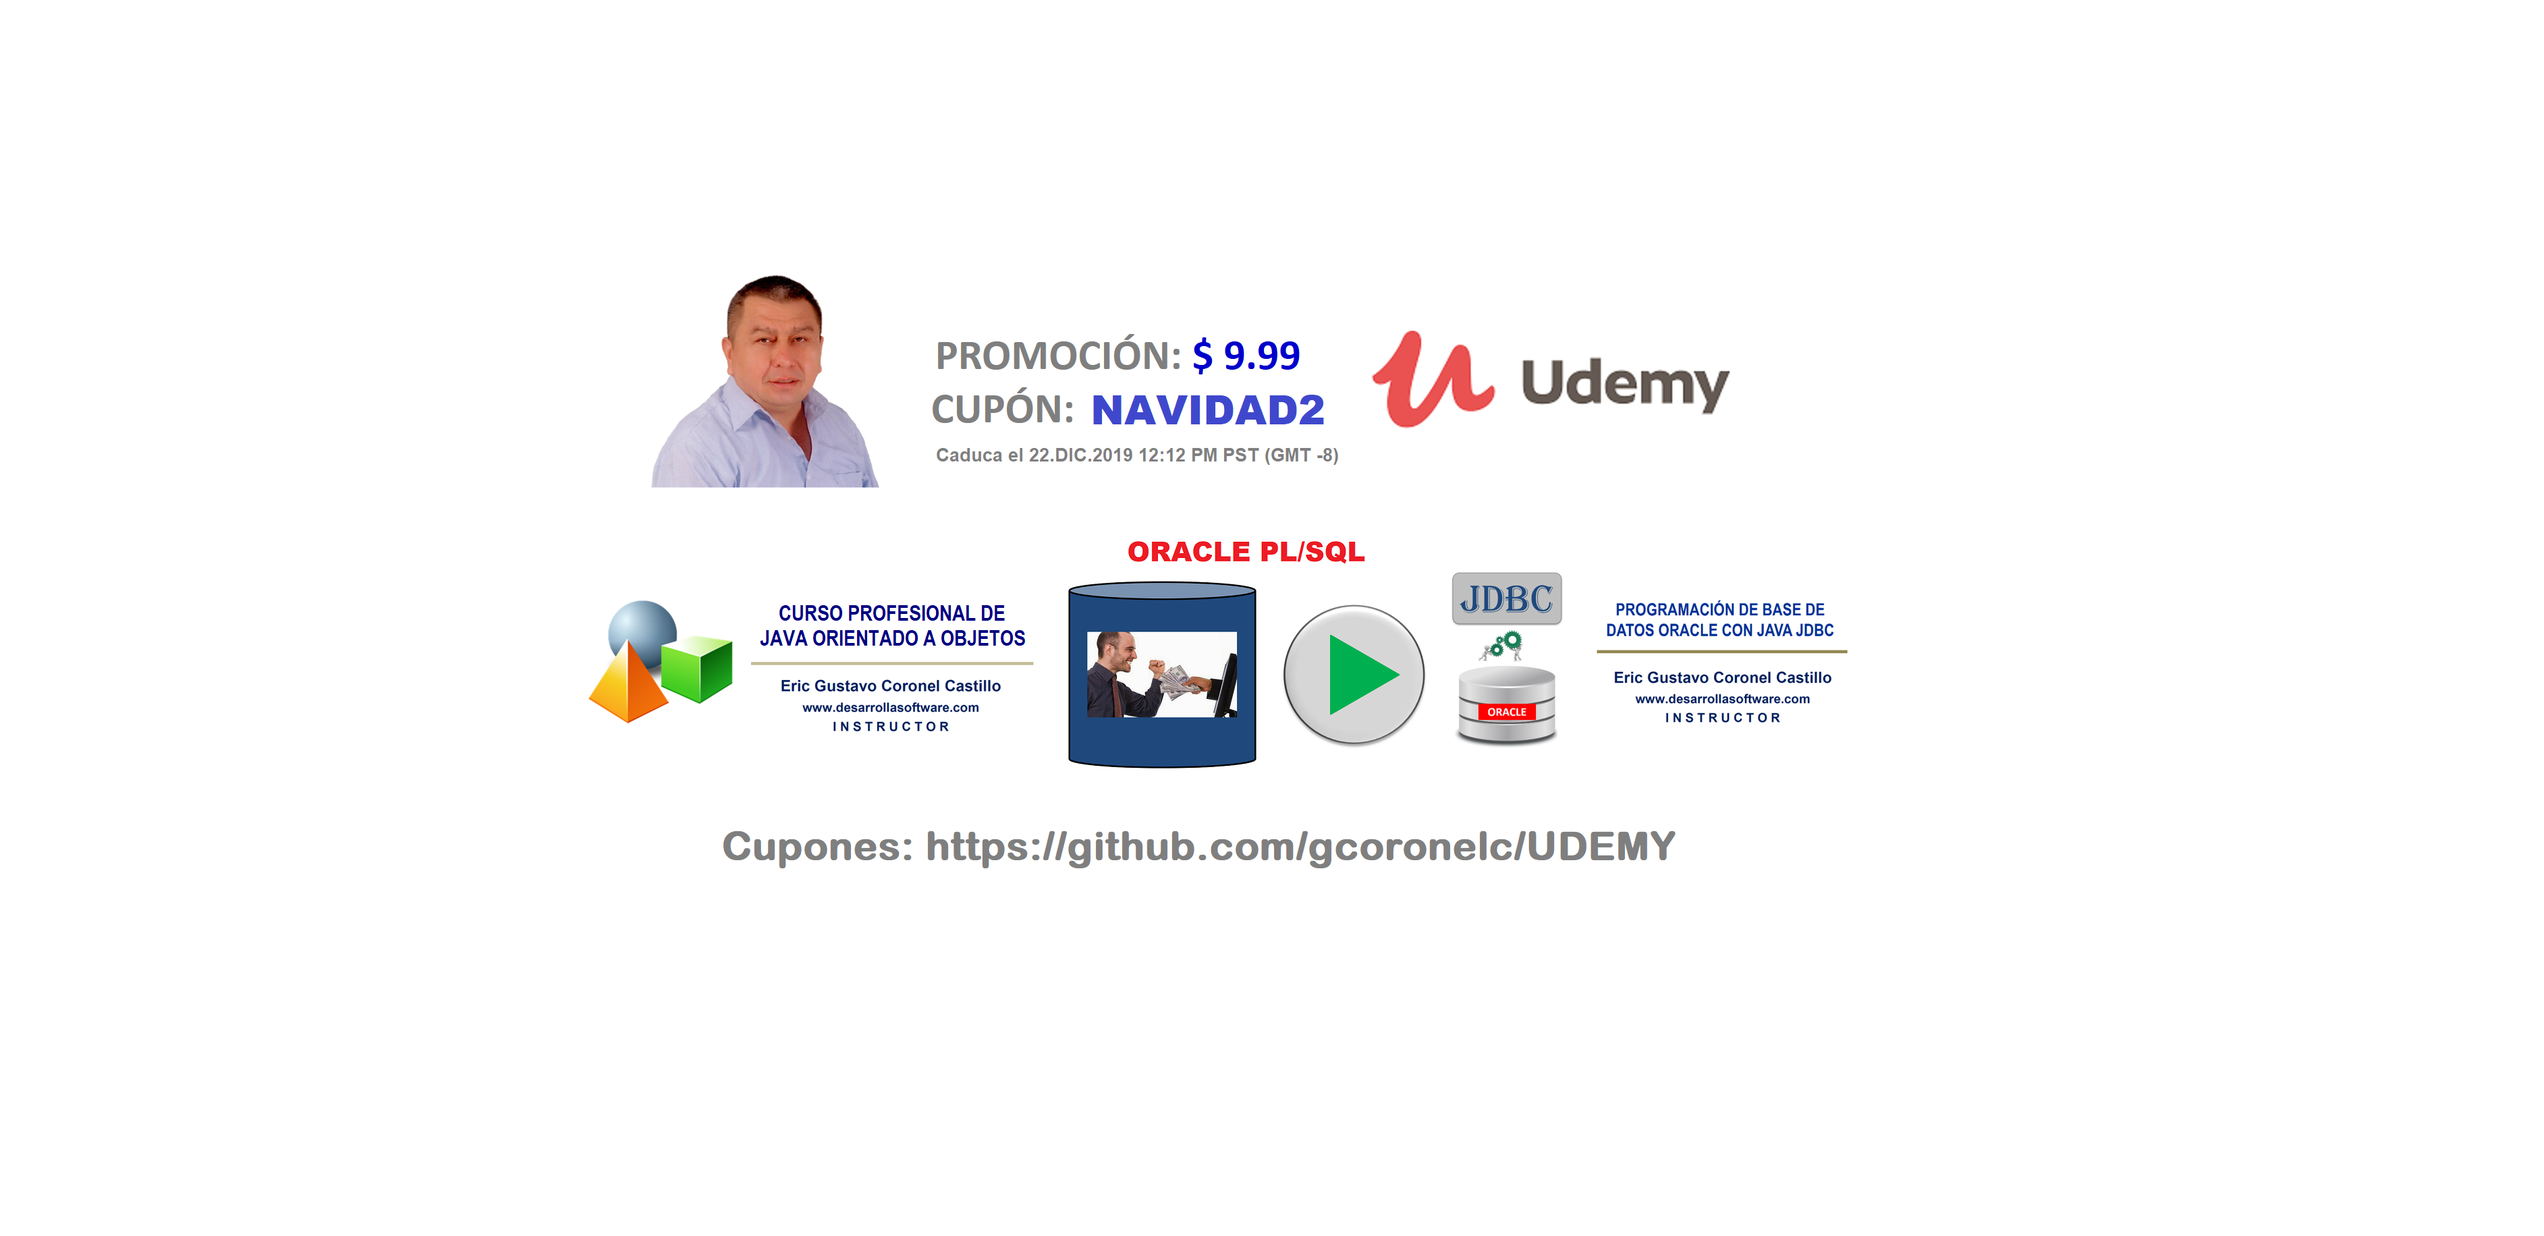
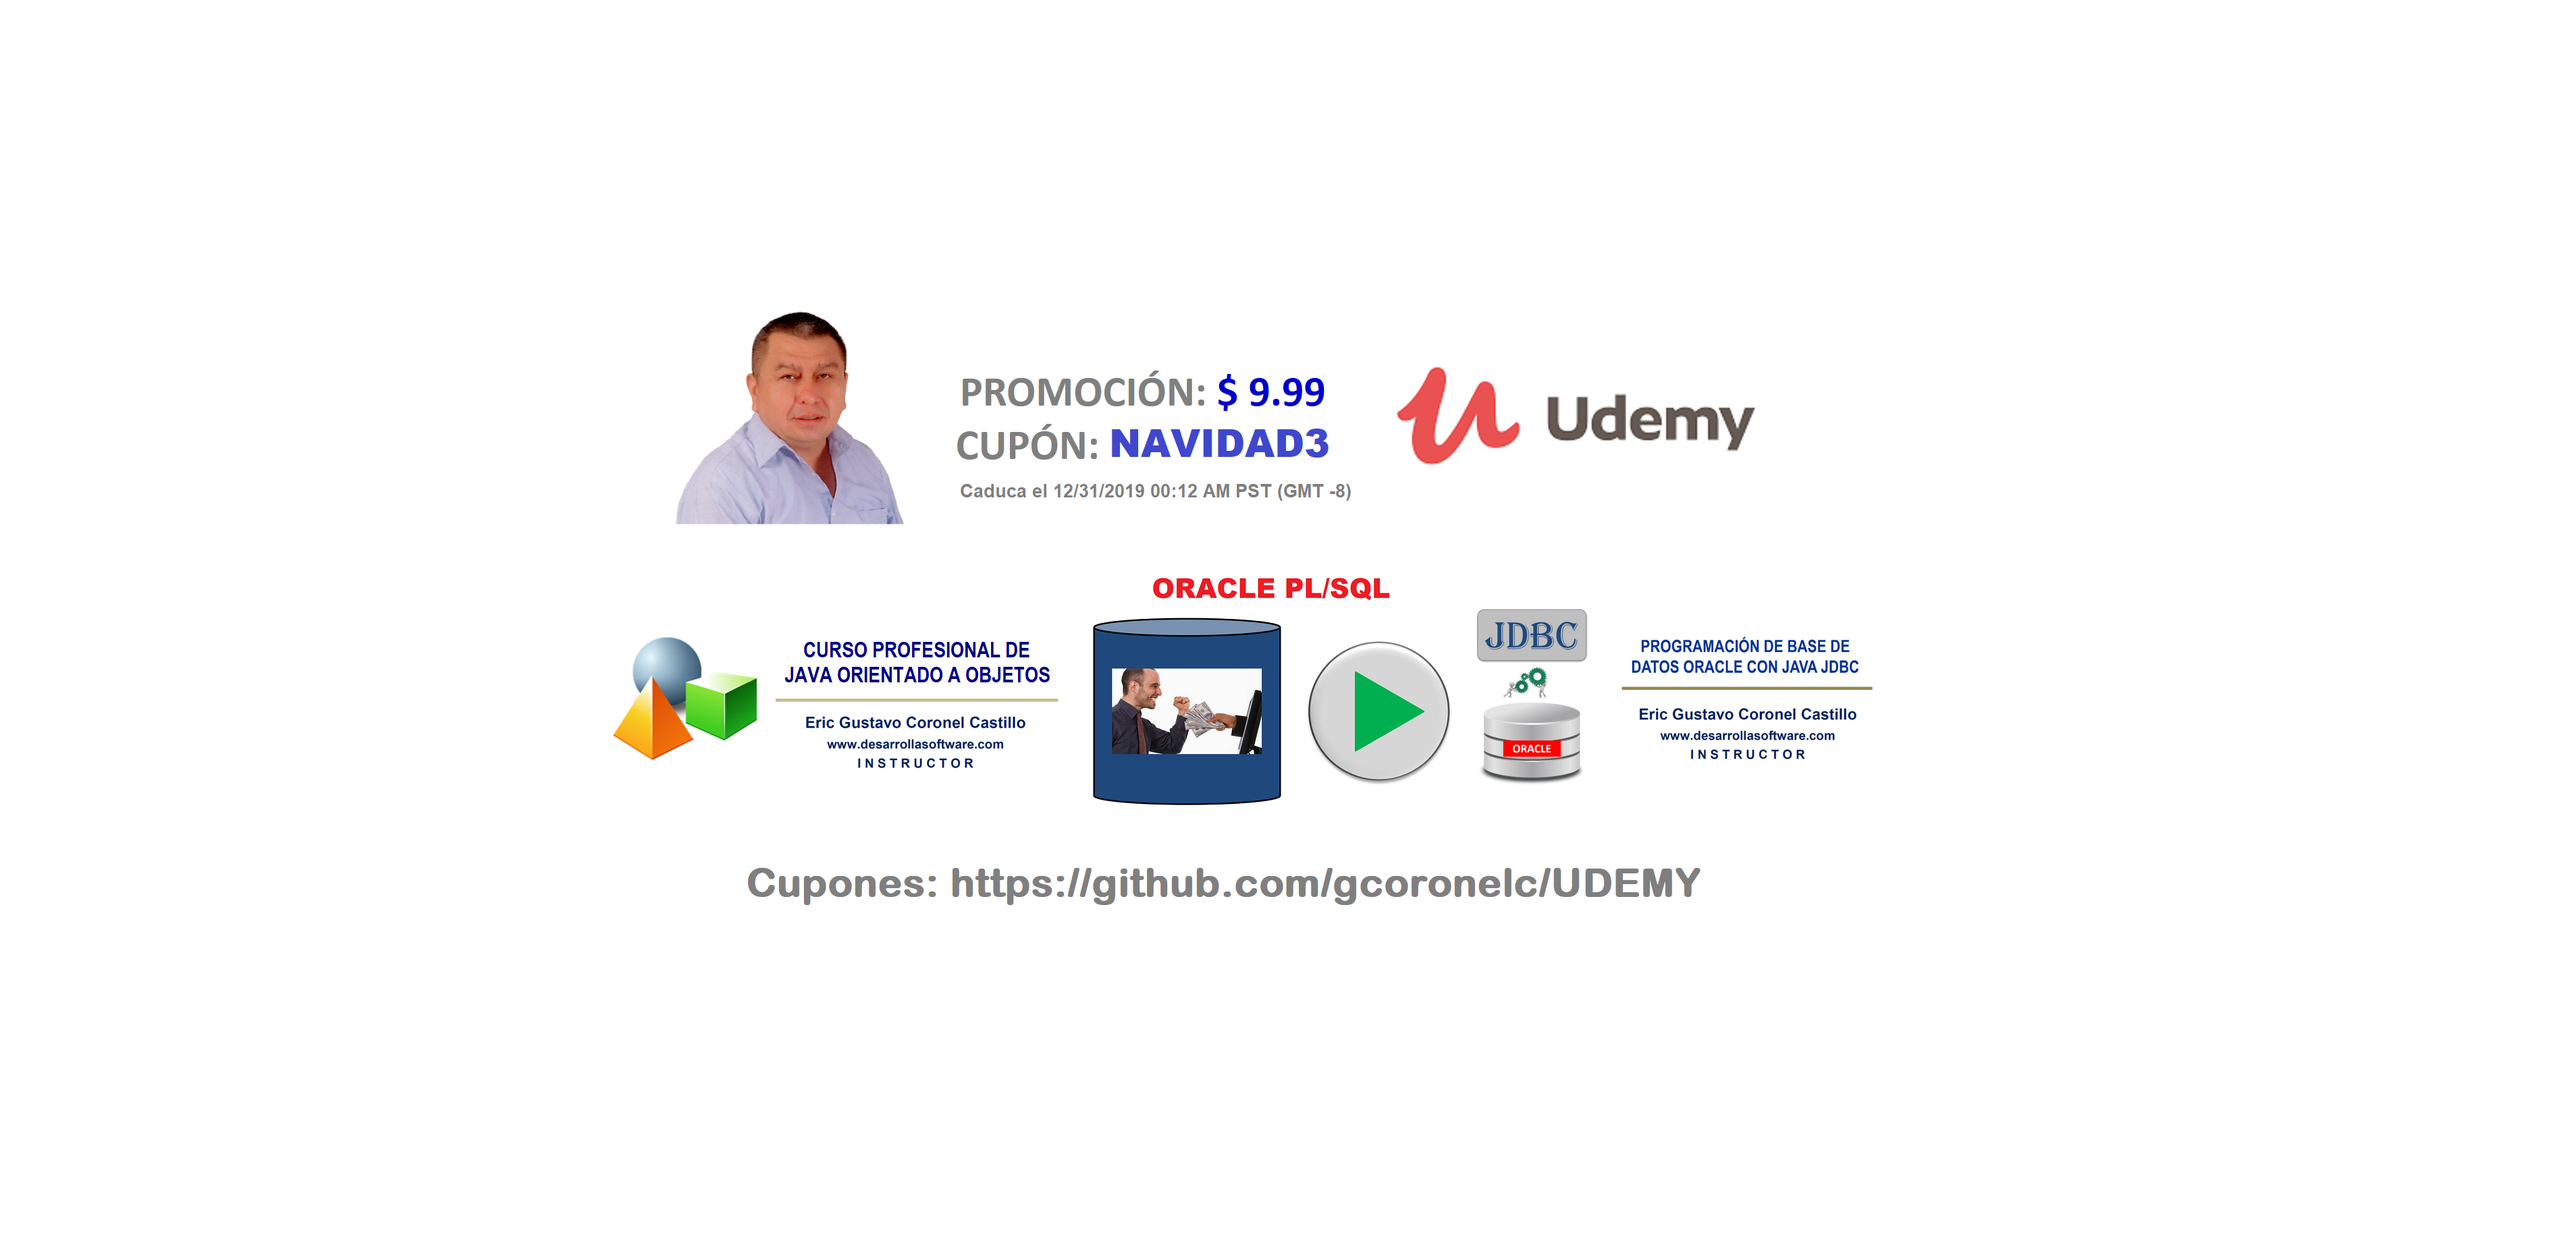
Repositorio

Changed region(s): [[0.2172, 0.4356, 0.7448, 0.7156], [0.2483, 0.2178, 0.6828, 0.4356]]

diff --git a/README.md b/README.md
@@ -1,25 +1,25 @@
-![CURSOS VIRTUALES EN UDEMY](https://raw.githubusercontent.com/gcoronelc/UDEMY/master/img/portada009.png)
+![CURSOS VIRTUALES EN UDEMY](https://raw.githubusercontent.com/gcoronelc/UDEMY/master/img/portada010.png)
 
 
 # JAVA ORIENTADO A OBJETOS
 
-- Cupon de $9.99: NAVIDAD2
-- Enlace: https://www.udemy.com/course/java-orientado-a-objetos/?couponCode=NAVIDAD2
+- Cupon de $9.99: NAVIDAD3
+- Enlace: https://www.udemy.com/course/java-orientado-a-objetos/?couponCode=NAVIDAD3
 
 [![JAVA ORIENTADO A OBJETOS](https://raw.githubusercontent.com/gcoronelc/UDEMY/master/cursos/joo.png)](http://www.youtube.com/watch?v=EKlwF12-l9Y "JAVA ORIENTADO A OBJETOS")
 
 # PROGRAMACIÓN DE BASE DE DATOS ORACLE CON JAVA JDBC
 
-- Cupon de $9.99: NAVIDAD2
-- Enlace: https://www.udemy.com/course/java-jdbc-oracle/?couponCode=NAVIDAD2
+- Cupon de $9.99: NAVIDAD3
+- Enlace: https://www.udemy.com/course/java-jdbc-oracle/?couponCode=NAVIDAD3
 
 [![JAVA JDBC CON BASE DE DATOS ORACLE](https://raw.githubusercontent.com/gcoronelc/UDEMY/master/cursos/jdbc.png)](http://www.youtube.com/watch?v=MR53Xgeg28Y "JAVA JDBC CON BASE DE DATOS ORACLE")
 
 
 # ORACLE PL/SQL
 
-- Cupon de $9.99: NAVIDAD2
-- Enlace: https://www.udemy.com/course/lenguaje-plsql/?couponCode=NAVIDAD2
+- Cupon de $9.99: NAVIDAD3
+- Enlace: https://www.udemy.com/course/lenguaje-plsql/?couponCode=NAVIDAD3
 
 [![ORACLE PL/SQL](https://raw.githubusercontent.com/gcoronelc/UDEMY/master/cursos/plsql.png)](https://youtu.be/qf5IF2dJtQc "ORACLE PL/SQL")
 
